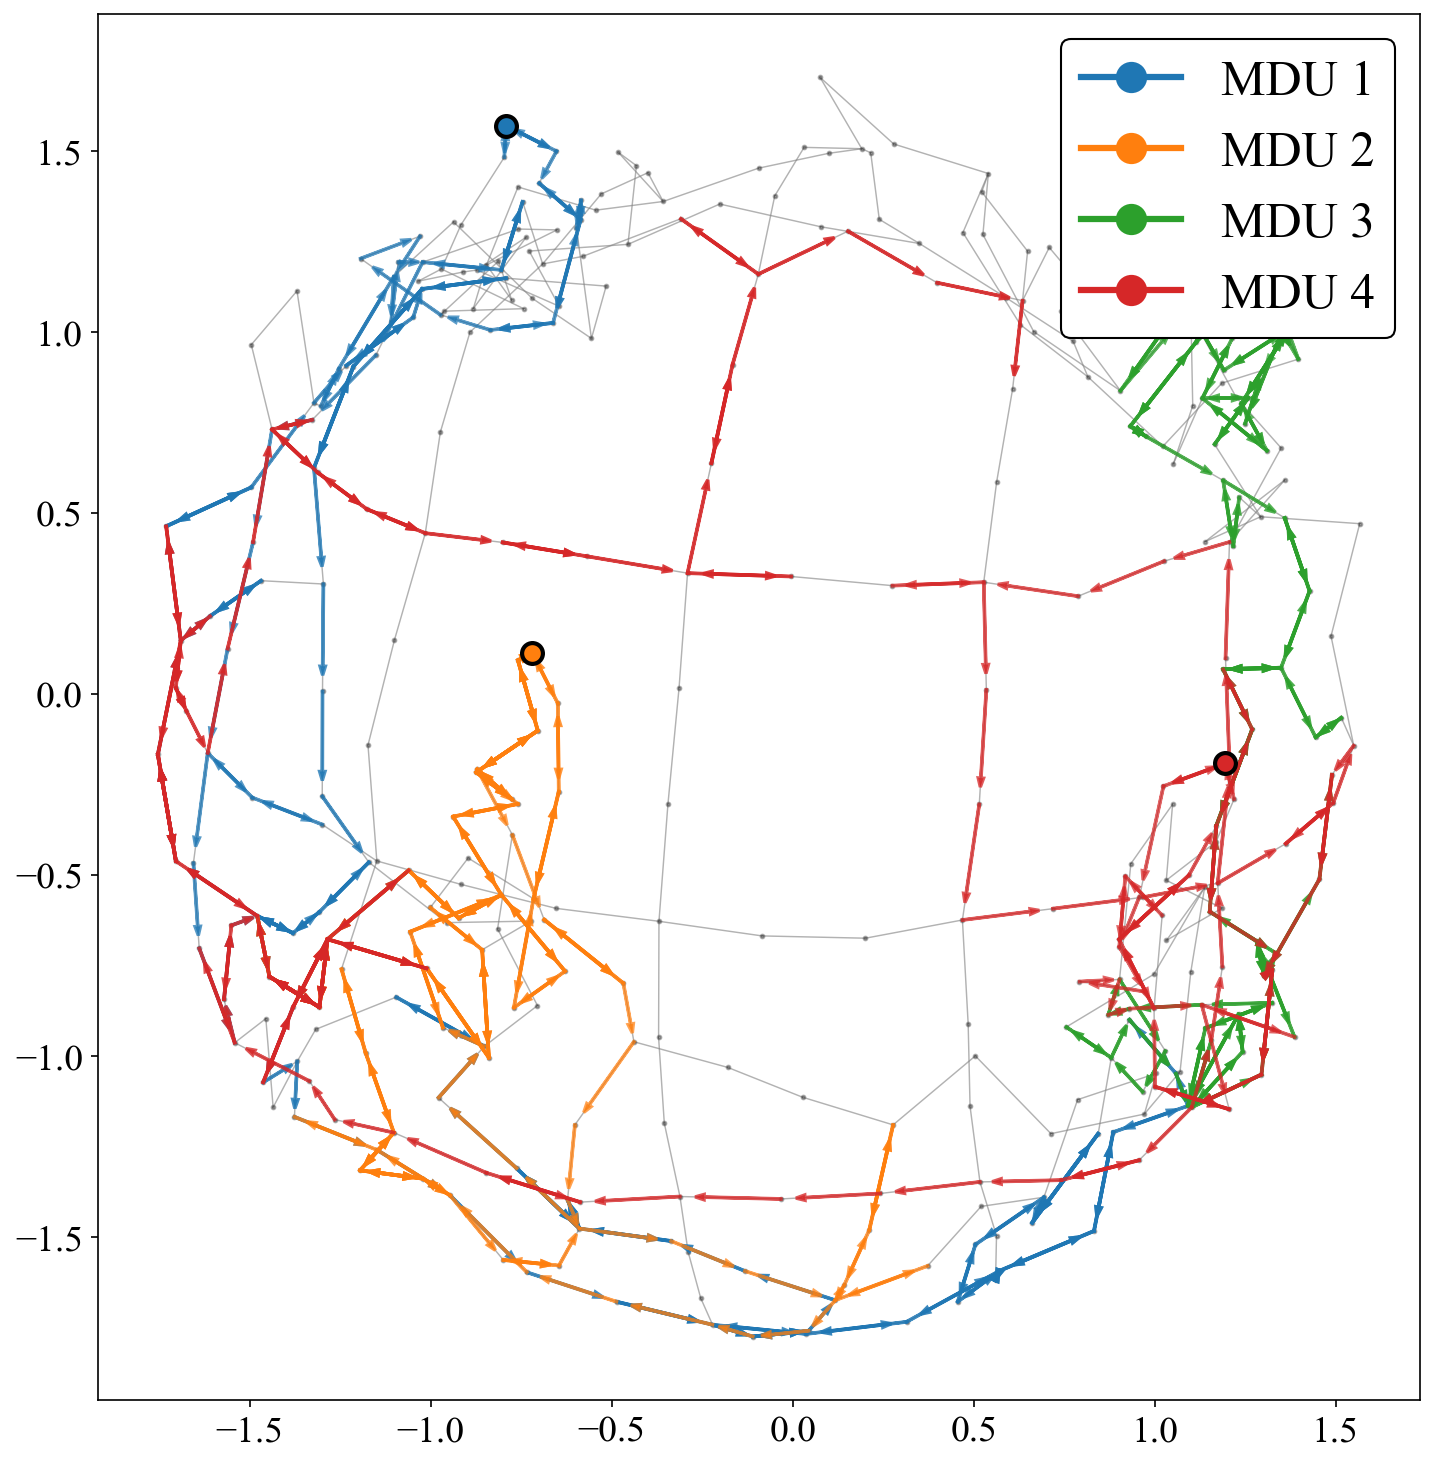
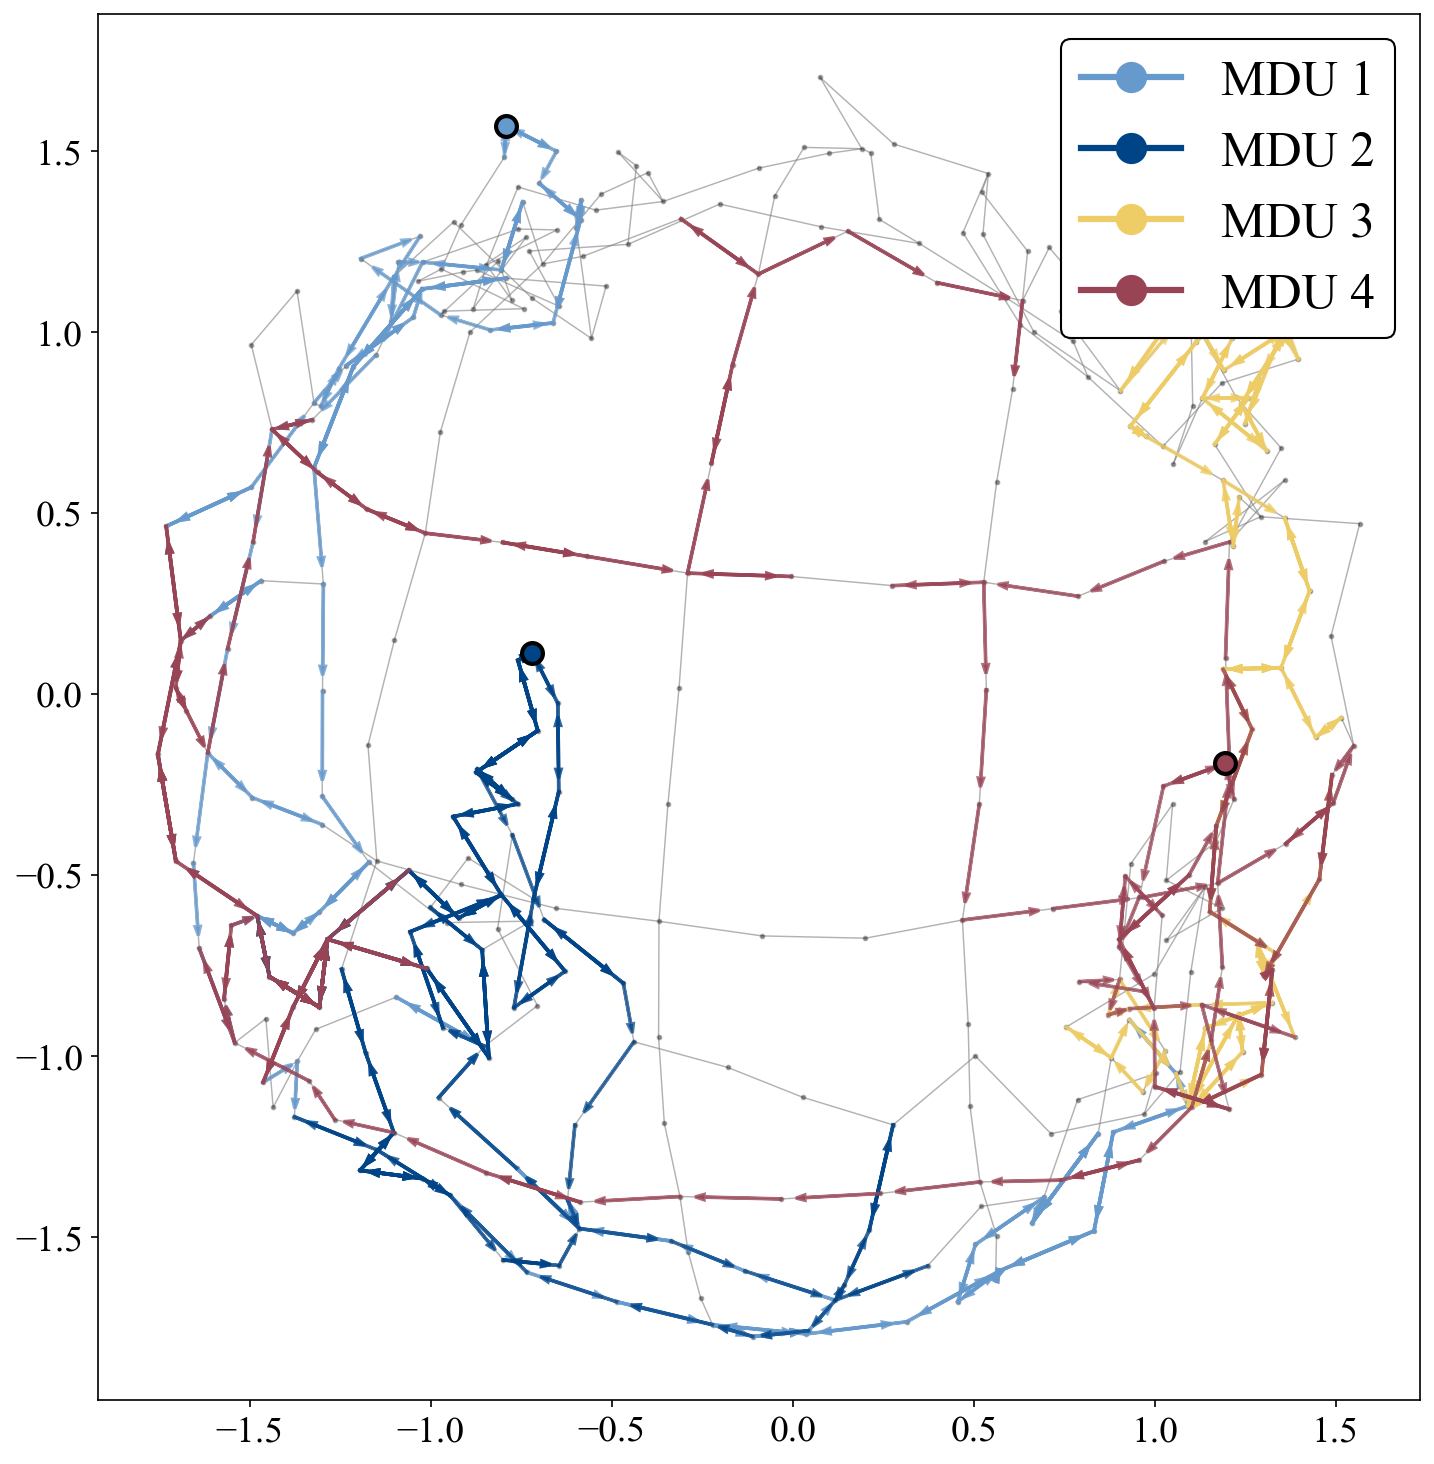
Switch to TOL muted color palette for MDU trajectories

diff --git a/analysis/plot_topology.py b/analysis/plot_topology.py
@@ -24,7 +24,7 @@ plt.rcParams["axes.labelweight"] = "bold"
 plt.rcParams["axes.titleweight"] = "bold"
 plt.rcParams["font.weight"] = "normal"
 
-COLORS_MDU = plt.cm.tab10(np.linspace(0, 1, 10))
+TOL_MUTED = ["#6699CC", "#004488", "#EECC66", "#994455", "#997700", "#EE99AA"]
 
 
 def compute_2d_layout(positions):
@@ -63,7 +63,7 @@ def draw(ax, grid, net_edges, mdu_nodes, N_mdus, T):
     ax.scatter(cs, rs, s=3, color=(0.2, 0.2, 0.2, 0.4), zorder=2)
 
     for mdu_idx in range(N_mdus):
-        path = mdu_nodes[:, mdu_idx]; color = COLORS_MDU[mdu_idx]
+        path = mdu_nodes[:, mdu_idx]; color = TOL_MUTED[mdu_idx]
         for t in range(T - 1):
             u, v = int(path[t]), int(path[t + 1])
             if u == v or u not in grid or v not in grid: continue
@@ -81,8 +81,8 @@ def draw(ax, grid, net_edges, mdu_nodes, N_mdus, T):
 
     # Custom legend: line+dot per MDU
     from matplotlib.lines import Line2D
-    handles = [Line2D([0], [0], marker="o", color=COLORS_MDU[i],
-                      markerfacecolor=COLORS_MDU[i], markersize=14,
+    handles = [Line2D([0], [0], marker="o", color=TOL_MUTED[i],
+                      markerfacecolor=TOL_MUTED[i], markersize=14,
                       linewidth=3, label=f"MDU {i + 1}") for i in range(N_mdus)]
     leg = ax.legend(handles=handles, loc="upper right", fontsize=24,
                     framealpha=1.0, facecolor="white", edgecolor="black")
